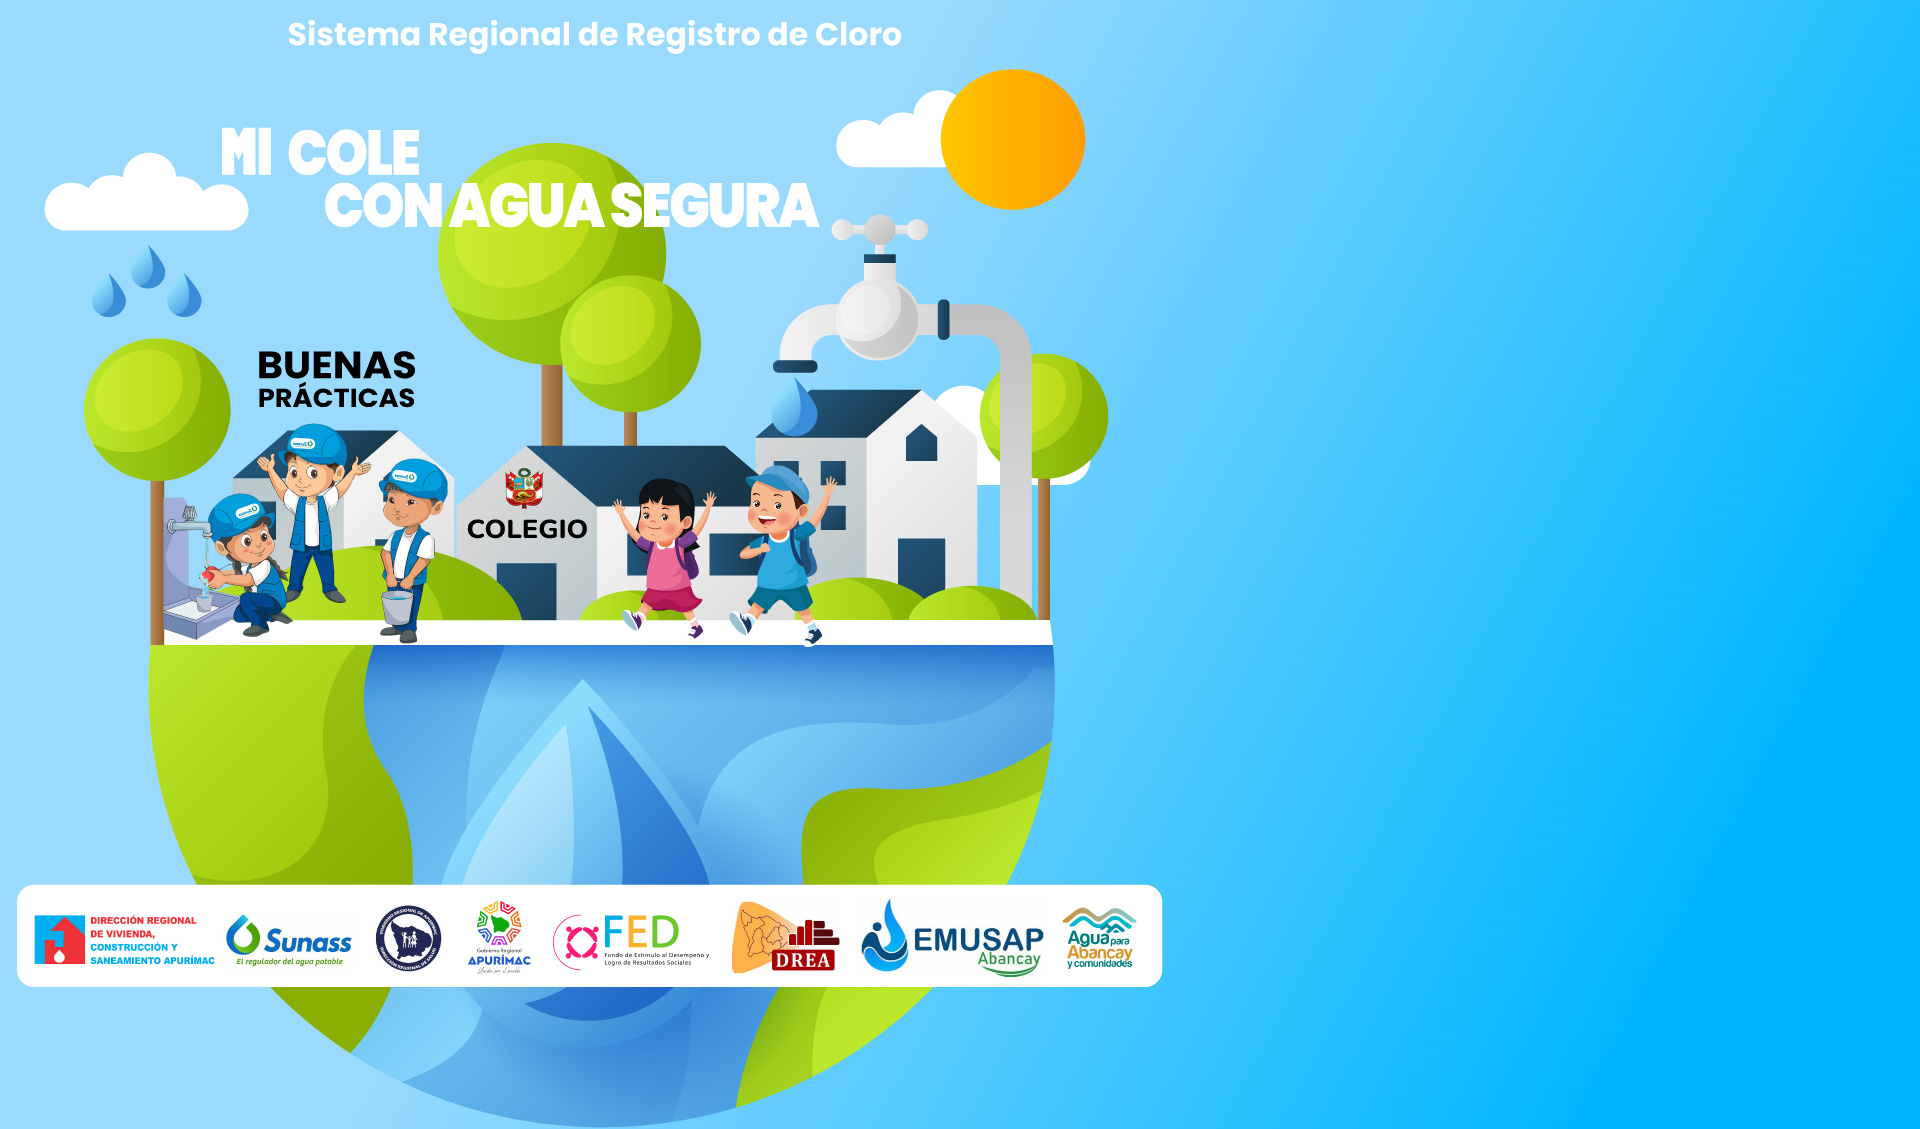
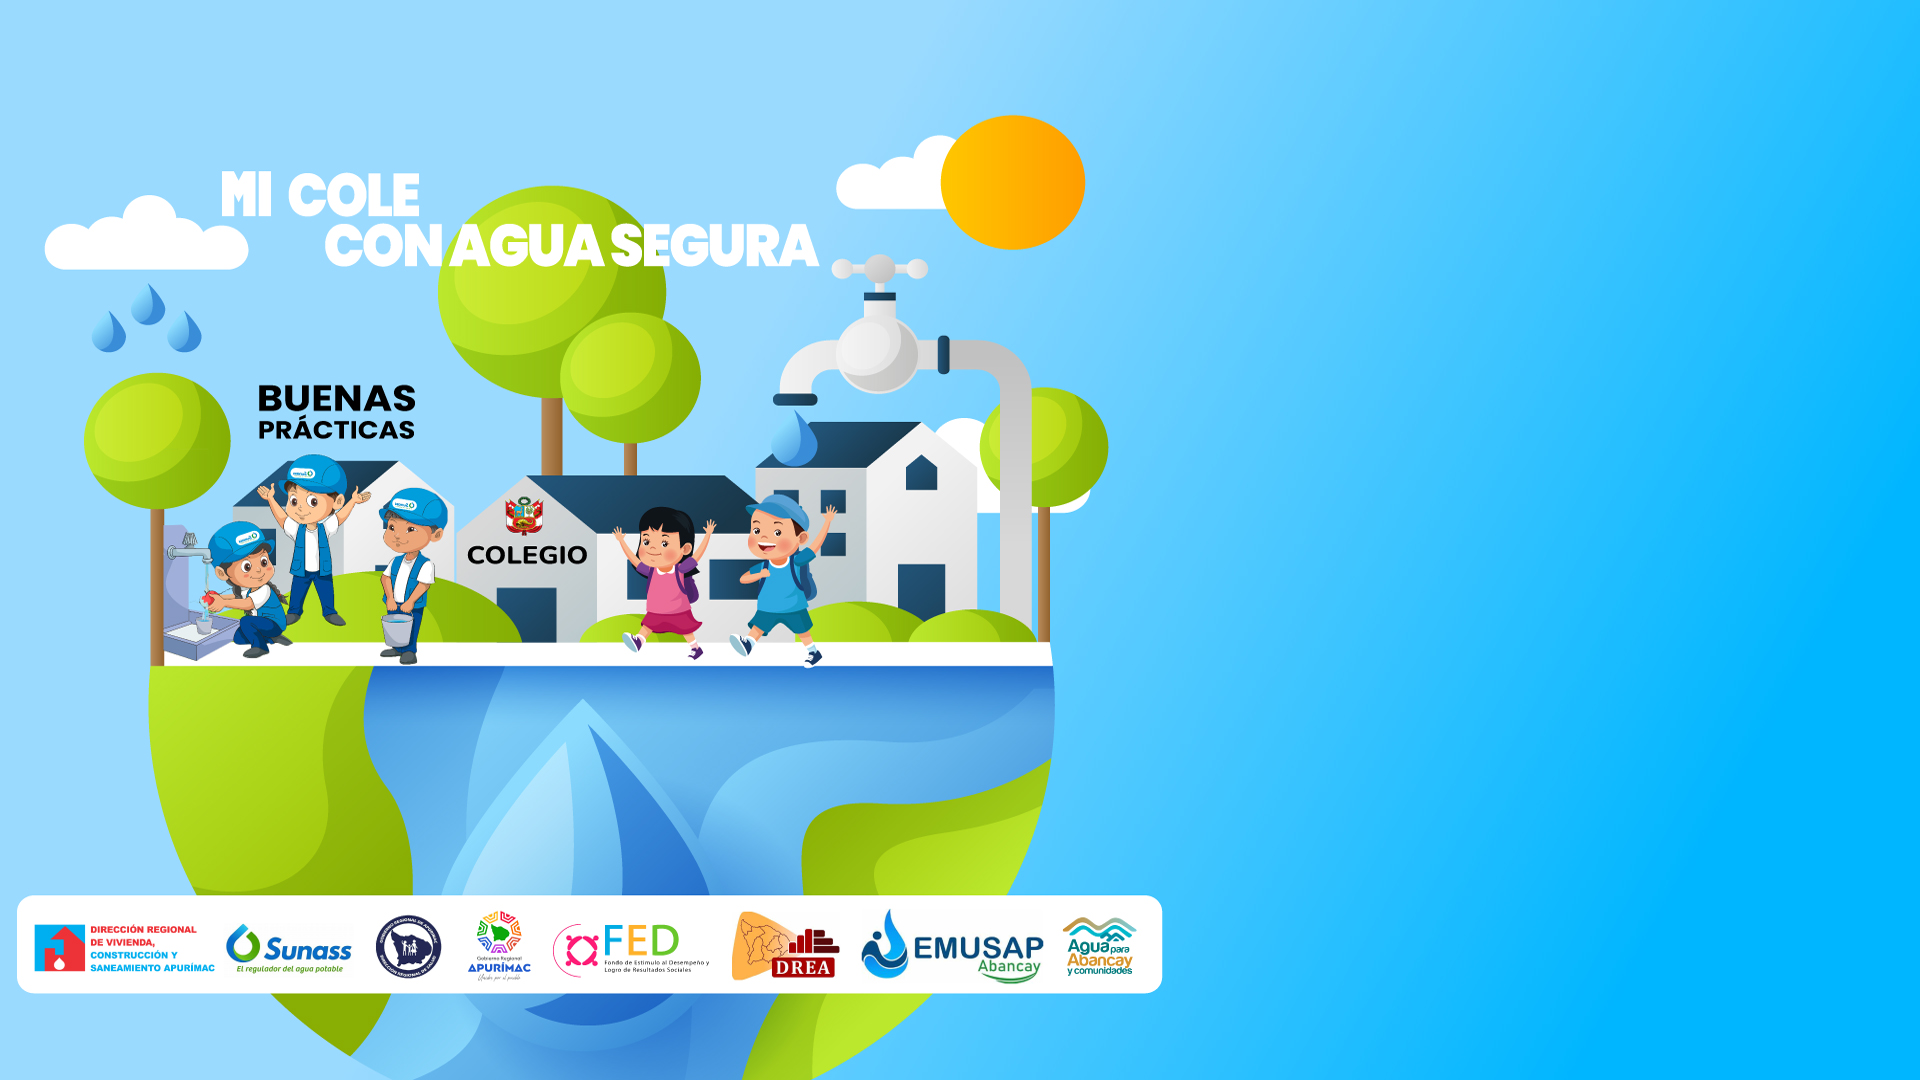
login mejorado

Changed region(s): [[0.0, 0.0611, 0.625, 1.0], [0.1562, 0.0, 0.4688, 0.0611]]

diff --git a/resources/views/user/loginasadmin.blade.php b/resources/views/user/loginasadmin.blade.php
@@ -24,34 +24,11 @@
 	<style>
 		body
 		{
-			margin: 0;
-			padding: 0;
-			min-height: 100vh;
-			font-family: 'Arial', sans-serif;
-		}
-
-		.login-container
-		{
-			display: flex;
-			min-height: 100vh;
 			background-image: url("{{asset('img/loginBanner/bannerAgua.jpg')}}");
 			background-size: cover;
-			background-position: center;
+			background-position: 33% center;
 			background-repeat: no-repeat;
-		}
-
-		.login-image-section
-		{
-			flex: 1;
-		}
-
-		.login-form-section
-		{
-			flex: 1;
-			display: flex;
-			align-items: center;
-			justify-content: flex-end;
-			padding: 20px 60px 20px 20px;
+			background-attachment: fixed;
 		}
 
 		.login100-form-bgbtn
@@ -71,26 +48,39 @@
 
 		.wrap-login100
 		{
-			background-color: rgba(255, 255, 255, 0.95);
-			max-width: 400px;
-			width: 100%;
-			padding: 40px;
-			border-radius: 10px;
-			box-shadow: 0px 10px 30px rgba(0, 0, 0, 0.2);
-			backdrop-filter: blur(10px);
+			background-color: #ffffff;
 		}
 
+		/* Responsivo para móviles */
 		@media (max-width: 768px) {
-			.login-container {
-				flex-direction: column;
+			.wrap-login100 {
+				margin: 20px;
+				margin-left: 20px !important;
+				margin-right: 20px !important;
+				max-width: none !important;
+				width: calc(100% - 40px) !important;
 			}
 			
-			.login-image-section {
-				min-height: 200px;
+			.container-login100 {
+				padding: 15px;
 			}
 			
-			.login-form-section {
-				min-height: calc(100vh - 200px);
+			body {
+				background-position: 10% center;
+			}
+		}
+
+		@media (max-width: 480px) {
+			.wrap-login100 {
+				margin: 10px;
+				margin-left: 10px !important;
+				margin-right: 10px !important;
+				width: calc(100% - 20px) !important;
+				padding: 30px 20px !important;
+			}
+			
+			body {
+				background-position: 5% center;
 			}
 		}
 	</style>
@@ -122,20 +112,15 @@
 			});
 		</script>
 	@endif
-	<div class="login-container">
-		<!-- Sección de imagen (izquierda) -->
-		<div class="login-image-section">
-		</div>
-		
-		<!-- Sección de formulario (derecha) -->
-		<div class="login-form-section">
-			<div class="wrap-login100">
+	<div class="limiter">
+		<div class="container-login100" style="background-color: transparent;">
+			<div class="wrap-login100" style="box-shadow: 0px 0px 10px rgba(0, 0, 0, 0.7); margin-left: auto; margin-right: 80px; max-width: 450px;">
 				<form class="login100-form validate-form" action="{{url('user/loginasadmin')}}" method="post">
-					<span class="login100-form-title p-b-26" style="color: #6a6a6a;">
-						{{($tConfigurationFmMdl!=null ? $tConfigurationFmMdl->platformName : 'System')}}
+					<span class="login100-form-title p-b-26" style="color: #333; font-size: 24px; font-weight: bold; text-align: center;">
+						Sistema Regional de Registro de Cloro
 					</span>
 					<span class="login100-form-title p-b-48">
-						<img src="{{asset('img/general/logo.png')}}" alt="Logo" style="background-color: #ffffff;border-radius: 5px;box-shadow: 0px 0px 5px #ffffff;padding: 5px;padding-left: 10px;padding-right: 10px;width: 100%;">
+						<img src="{{asset('img/loginBanner/logohector.png')}}" alt="Logo Héctor" style="width: 100%; max-width: 200px; height: auto;">
 					</span>
 					<div class="wrap-input100">
 						<input type="text" id="txtEmail" name="txtEmail" class="input100" style="color: #000000;">
